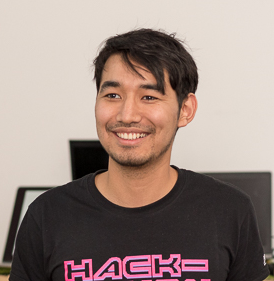
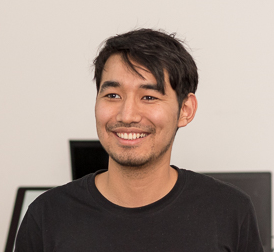
Cut the picture

diff --git a/index.html b/index.html
@@ -36,26 +36,42 @@ html,body,h1,h2,h3,h4,h5,h6 {font-family: "Overpass" }
       </div>
 
       <div class="w3-container w3-card w3-white w3-text-grey w3-margin-bottom">
-        <div class="w3-row">
+        <div class="w3-row-padding">
           <div class="w3-third">
             <p class="w3-large"><b><i class="fas fa-terminal w3-margin-right w3-text-indigo"></i>Machine Languages</b></p>
-            <p><span class="w3-tag w3-indigo w3-round">C#</span></p>
-            <p><span class="w3-tag w3-indigo w3-round">Python</span></p>
-            <p><span class="w3-tag w3-indigo w3-round">C</span></p>
-            <p><span class="w3-tag w3-indigo w3-round">JavaScript</span></p>
+            <div class="w3-row">
+              <div class="w3-col s3">
+                <p><span class="w3-tag w3-indigo w3-round">C#</span></p>
+              </div>
+              <div class="w3-col s3">
+                <p><span class="w3-tag w3-indigo w3-round">Python</span></p>
+              </div>
+            </div>
+            <div class="w3-row">
+              <div class="w3-col s3">
+                <p><span class="w3-tag w3-indigo w3-round">C</span></p>
+              </div>
+              <div class="w3-col s3">
+                <p><span class="w3-tag w3-indigo w3-round">JavaScript</span></p>
+              </div>
+            </div>
           </div>
           <div class="w3-third">
             <p class="w3-large"><b><i class="fas fa-code-branch w3-margin-right w3-text-indigo"></i>Version Control</b></p>
-            <p><span class="w3-tag w3-indigo w3-round">Git</span></p>
-            <p><span class="w3-tag w3-indigo w3-round">Mercurial</span></p>
+            <div class="w3-row">
+              <p><span class="w3-tag w3-indigo w3-round">Git</span></p>
+              <p><span class="w3-tag w3-indigo w3-round">Mercurial</span></p>
+            </div>
           </div>
           <div class="w3-third">
             <p class="w3-large"><b><i class="fas fa-bug w3-margin-right w3-text-indigo"></i>Continious Integration</b></p>
-            <p><span class="w3-tag w3-indigo w3-round">TeamCity</span></p>
-            <p><span class="w3-tag w3-indigo w3-round">Jenkins</span></p>
+            <div class="w3-row">
+              <p><span class="w3-tag w3-indigo w3-round">TeamCity</span></p>
+              <p><span class="w3-tag w3-indigo w3-round">Jenkins</span></p>
+            </div>
           </div>
         </div>
-        <div class="w3-row">
+        <div class="w3-row-padding">
           <p class="w3-large"><b><i class="fas fa-code w3-margin-right w3-text-indigo"></i>Web</b></p>
           <div class="w3-col s2">
             <p><span class="w3-tag w3-indigo w3-round">HTML</span></p>
@@ -93,7 +109,7 @@ html,body,h1,h2,h3,h4,h5,h6 {font-family: "Overpass" }
             <p>Bachelor Degree in Electrical Engineering</p>
           </div>
           <div class="w3-third">
-            <img src="./images/itu.gif" class="w3-image" alt="ITU">
+            <img src="./images/itu.gif" class="w3-image" style="width:50%" alt="ITU">
           </div>
         </div>
         <hr>
@@ -104,7 +120,7 @@ html,body,h1,h2,h3,h4,h5,h6 {font-family: "Overpass" }
             <p>Exchange year Erasmus LLP</p><br>
           </div>
           <div class="w3-third">
-            <img src="./images/agh.jpg" class="w3-image" alt="AGH">
+            <img src="./images/agh.jpg" class="w3-image" style="width:50%" alt="AGH">
           </div>
         </div>
       </div>
@@ -146,7 +162,7 @@ html,body,h1,h2,h3,h4,h5,h6 {font-family: "Overpass" }
           <div class="w3-light-grey w3-round-xlarge w3-small">
             <div class="w3-round-xlarge w3-indigo" style="height:18px;width:60%"></div>
           </div>
-          <br>
+          <hr>
 
           <p class="w3-large w3-text-theme"><b><i class="fa fa-globe fa-fw w3-margin-right w3-text-indigo"></i>Human Languages</b></p>
           <div class="w3-row">
